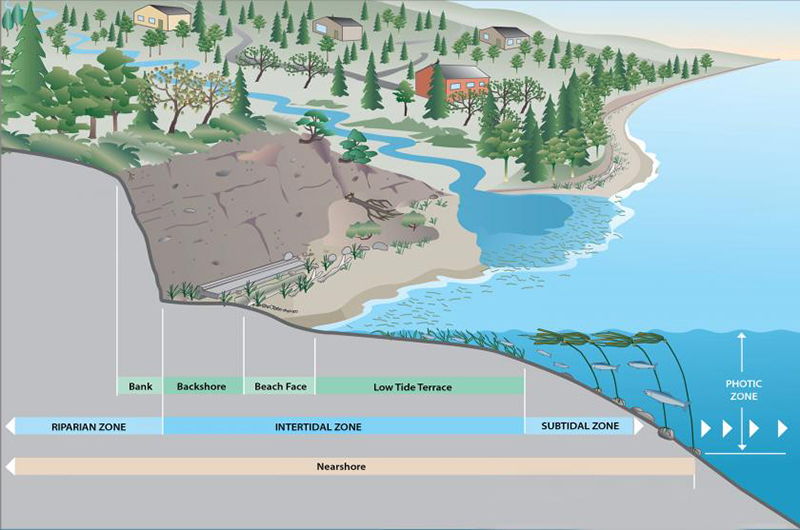
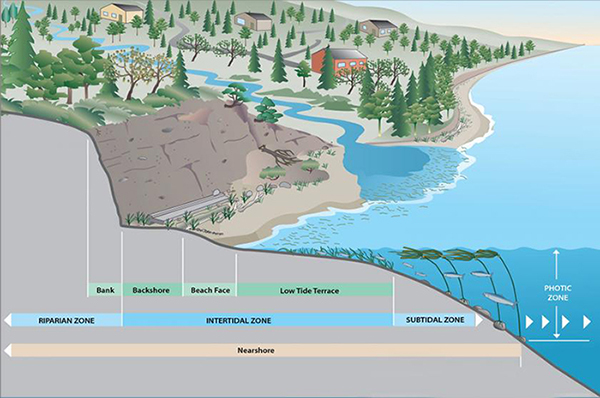
Adjusted page and style

diff --git a/css/custom.css b/css/custom.css
@@ -1248,12 +1248,17 @@ display: block
 .button1 {
 	border-radius: 8px;
 	background-color: #EF892E;
-	padding: 10px 10px 10px 10px;
+
 }
 .button2 {
 	border-radius: 8px;
 	background-color: #0a3b5c;
 	padding: 10px 15px;
+}
+.button3 {
+	border-radius: 8px;
+	background-color: #EF892E;
+	padding: 40px 40px 40px 40px;
 }
 .navbox {
 	background-color: #FFF;

diff --git a/pspnc-alternate.php b/pspnc-alternate.php
@@ -71,11 +71,11 @@
 		<div class="col-sm-7 padding-20-top content-column"> <!-- InstanceBeginEditable name="6col_content" -->
 		<div class="row">
             <div class="col-sm-12">
-                <img class="img-responsive" src="images/NearshoreGraphicKingCo.jpg" width="800" height="530" alt="Graphic that shows the nearshore area of a shoreline, where the nearshore area extends from feeder bluffs on the land to the subtidal zone in the water"/>
+                <img class="img-responsive" src="images/NearshoreGraphicKingCo.jpg" width="600" height="398" alt="Graphic that shows the nearshore area of a shoreline, where the nearshore area extends from feeder bluffs on the land to the subtidal zone in the water"/>
             </div>	
 		</div>
 			
-			<button class="button button1"><a href="/pspnc-credits.php" target="_blank" style="color:white"><p class="PSPNC-font">Interested in purchasing conservation credits? Click here</p></a></button>
+			<button class="button button3"><a href="/pspnc-credits.php" target="_blank" style="color:white"><p class="PSPNC-font">Interested in purchasing conservation credits? Click here</p></a></button>
 		
 			<br>
 			<br>
